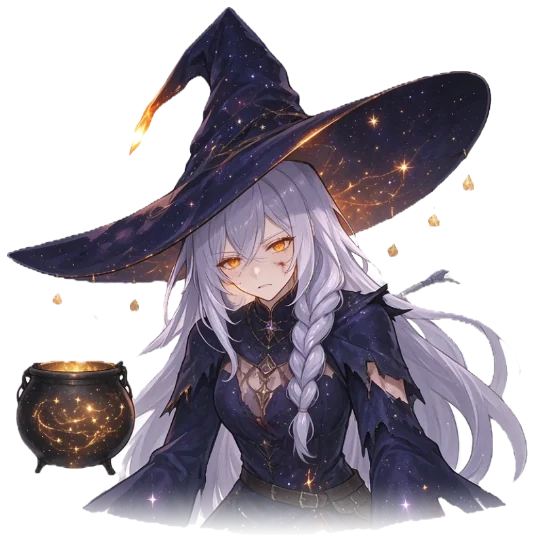
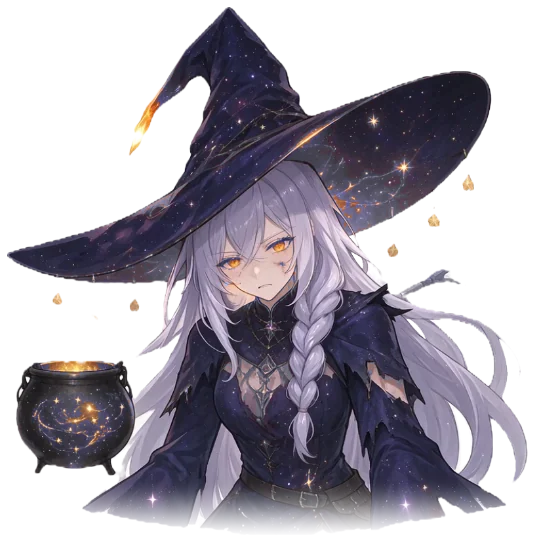
fix: Toy 审核整改——薇斯珀立绘血迹清洗，出图管线自动除血
第八次驳回（assets/index-TuP5tWLE.js，md5 确认即当时 HEAD 构建）。本次
'文案和图片' 里的图片是实指：薇斯珀 stage-4/5 立绘有明显血迹（脸部流血、
血红手臂、衣袍血污），随图组 Boss 首次以真实图片资源（dist/assets/
stage-*.webp）进包被扫出。这正是记忆里挂账的合规待办。

整改：
- 新增 tools/boss-cut/deblood.py：血红像素（色相 328°..15°，按亮度分级
  饱和度阈值——亮部 0.30 保住银发暖调、暗部 0.14）+ 暗褐区（色相 15°..30°
  且亮度 ≤0.50）→ 移向服装紫调，保亮度压饱和，血迹读作淤青/阴影而非抹除；
  橙色眼睛/灯笼（色相 18°..45° 亮部）不受影响
- 六张 stage 立绘全部清洗并目检：血迹消除、跨阶段发色/配色一致、
  stage-0 微笑与服装无感知变化
- stages.py 出图管线自动调用 deblood，重跑不回退
- AGENTS.md §3 改为图片红线专节：血迹一票否决、每轮提审人工过
  dist/assets/*.webp、check:package 扫不了图片内容
- Toy 包重建（stage 哈希全部更新），799 测试全过，lint 干净

diff --git a/tools/boss-cut/deblood.py b/tools/boss-cut/deblood.py
@@ -1,0 +1,97 @@
+"""deblood.py FILE [FILE…] — recolor blood-red pixels in boss stage art toward the costume violet.
+
+Platform review rejects packages whose imagery shows blood (2026-11-28: the Vesper stage art was
+named in the rejection). The stage art ships inside the game package, so blood stains in the
+source illustrations cannot go out as-is.
+
+What counts as blood here: pixels whose hue sits in the red band (328°..15°) — dark ones from a
+saturation of 0.14 up, bright ones (hair-highlight luminance) only from 0.30 so the silver hair's
+warm sheen survives — plus dark maroon (hue 15°..30°, value ≤ 0.50), which is where dried blood
+actually sits. The costume is navy-violet, the eyes and lantern orange (hue 18°..45°, bright) —
+all outside the bands. Recoloured pixels keep their luminance, take the costume's violet hue, and
+lose part of their saturation, so streaks read as bruises/shadow rather than being erased.
+
+Run it on every stage webp after `stages.py` (it is invoked automatically at the end of that
+script; this file is also usable standalone):
+
+    python tools/boss-cut/deblood.py src/render/boss/vesper/art/stage-*.webp
+"""
+import sys
+
+import numpy as np
+from PIL import Image
+
+# Blood band, in degrees. Orange (eyes, lantern, embers) lives at 18..45 and is left alone.
+HUE_LOW = 328.0
+HUE_HIGH = 15.0
+SAT_MIN = 0.14
+# Bright pixels (V >= VAL_BRIGHT) are hair highlights / warm silver sheen, whose low-saturation
+# pink tint must survive; only strongly saturated red up there is blood spatter.
+VAL_BRIGHT = 0.55
+SAT_BRIGHT = 0.30
+VAL_MIN = 0.08
+# Dark maroon blood sits at hue 12..30 too, but darker than any bright orange: recolour that
+# overlap band only where the pixel is dark, so eyes/lantern/skin highlights survive.
+HUE2_LOW = 15.0
+HUE2_HIGH = 30.0
+SAT2_MIN = 0.25
+VAL2_MAX = 0.50
+# What blood turns into: the costume's violet, muted.
+TARGET_HUE = 248.0
+SAT_KEEP = 0.55  # blood keeps this share of its saturation
+
+
+def rgb_to_hsv(rgb):
+    rgb = rgb.astype(np.float32) / 255.0
+    mx = rgb.max(-1)
+    mn = rgb.min(-1)
+    d = mx - mn
+    s = np.where(mx > 0, d / np.maximum(mx, 1e-6), 0)
+    v = mx
+    r, g, b = rgb[..., 0], rgb[..., 1], rgb[..., 2]
+    h = np.select(
+        [d == 0, mx == r, mx == g, mx == b],
+        [np.zeros_like(mx), ((g - b) / np.maximum(d, 1e-6)) % 6, (b - r) / np.maximum(d, 1e-6) + 2, (r - g) / np.maximum(d, 1e-6) + 4],
+    ) * 60.0
+    return h, s, v
+
+
+def hsv_to_rgb(h, s, v):
+    h = (h % 360) / 60.0
+    i = np.floor(h).astype(int) % 6
+    f = h - np.floor(h)
+    p = v * (1 - s)
+    q = v * (1 - s * f)
+    t = v * (1 - s * (1 - f))
+    r = np.select([i == 0, i == 1, i == 2, i == 3, i == 4, i == 5], [v, q, p, p, t, v])
+    g = np.select([i == 0, i == 1, i == 2, i == 3, i == 4, i == 5], [t, v, v, q, p, p])
+    b = np.select([i == 0, i == 1, i == 2, i == 3, i == 4, i == 5], [p, p, t, v, v, q])
+    return np.stack([r, g, b], -1)
+
+
+def deblood(path, quality=86):
+    im = Image.open(path).convert('RGBA')
+    rgba = np.asarray(im).astype(np.float32)
+    h, s, v = rgb_to_hsv(rgba[..., :3])
+    in_band = (h >= HUE_LOW) | (h <= HUE_HIGH)
+    band_sat = np.where(v >= VAL_BRIGHT, SAT_BRIGHT, SAT_MIN)
+    dark_maroon = (h >= HUE2_LOW) & (h <= HUE2_HIGH) & (s >= SAT2_MIN) & (v <= VAL2_MAX)
+    blood = (in_band & (s >= band_sat) & (v >= VAL_MIN)) | dark_maroon
+    if blood.any():
+        new_h = np.where(blood, TARGET_HUE, h)
+        new_s = np.where(blood, np.minimum(s * SAT_KEEP, 0.5), s)
+        rgb = hsv_to_rgb(new_h, new_s, v)
+        rgba[..., :3] = rgb * 255.0
+    out = Image.fromarray(rgba.clip(0, 255).astype(np.uint8), 'RGBA')
+    out.save(path, quality=quality)
+    return int(blood.sum())
+
+
+def main(argv):
+    for path in argv[1:]:
+        n = deblood(path)
+        print(f'{path}: recoloured {n} px')
+
+
+if __name__ == '__main__':
+    main(sys.argv)

diff --git a/tools/boss-cut/stages.py b/tools/boss-cut/stages.py
@@ -198,6 +198,12 @@ def save(rgba, name, quality):
     im = Image.fromarray((np.clip(rgba, 0, 1) * 255 + 0.5).astype(np.uint8))
     path = os.path.join(art, name + '.webp')
     im.save(path, 'WEBP', quality=quality, method=6)
+    if name.startswith('stage-'):
+        # The stage art ships inside the game package, and platform review rejects blood in
+        # imagery: recolour blood-red pixels toward the costume violet before they can ship.
+        import deblood
+
+        deblood.deblood(path, quality=quality)
     return im.size, os.path.getsize(path)
 
 

diff --git a/AGENTS.md b/AGENTS.md
@@ -94,9 +94,16 @@ pnpm build:toy     # tsc + vite（vite.toy.config.ts）+ 剥离站外产物
 英文避免 `KILLER / WEAPON / DEATH / BOMB` 一类实词（`dead-center`、`deadeye` 这类构词无碍），
 以及奇幻实体 `Enchanted / Elven / Neptune`（theme 场景用 `Verdant / Tide` 等自然词）。
 
-## 三、图片红线
+## 三、图片红线（第八次驳回：立绘血迹）
 
 - 图片里**不要出现文字**，除非确有必要；有必要时，文字同样遵守第二节全部规则（会被 OCR 扫描）。
+- **图片内容同样审核，血迹一票否决**（第八次驳回：薇斯珀 stage-4/5 立绘的血痕/血污随包上线
+  被点名）。Boss 立绘是打进包的真实图片资源——**所有出场图片（webp/png）都要过目检**：
+  血、断肢、裸露、恐怖意象都不行。
+- 立绘清洗已自动化：`tools/boss-cut/deblood.py` 把血红像素（含暗褐 dried blood）移向服装紫调，
+  保亮度压饱和；`stages.py` 出图时自动调用，**重跑管线不会回退**。新人设/新图组的原图若自带
+  血迹，要么让画师改原图，要么扩 `deblood.py` 的捕获带并逐张目检。
+- `check:package` 扫不了图片内容——每轮提审前人工看一遍 `dist/assets/*.webp`（尤其是新图）。
 - `og-cover.png` 不进提审包（`build:toy` 会删）；网页版需要改它时用
   `promo/scripts/make_og_cover.mjs` 重生成，不要手改 PNG。
 - 新增任何 `public/` 图片或 SVG：先自查是否有站外 logo、二维码、绝对化文案、军事/死亡意象。
